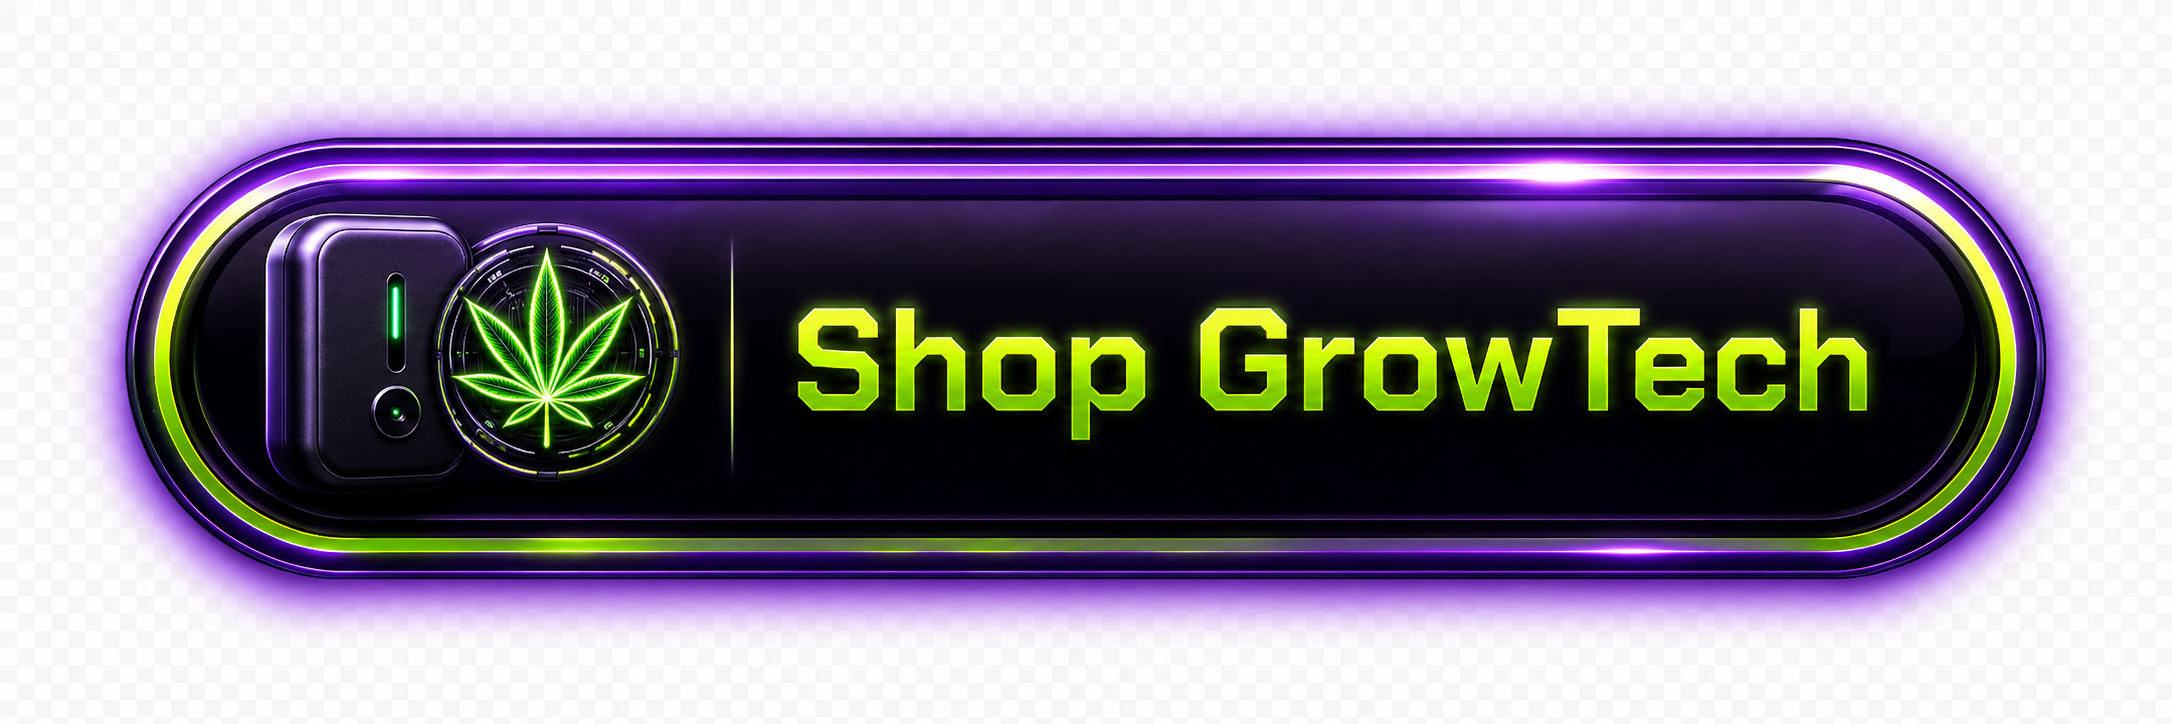
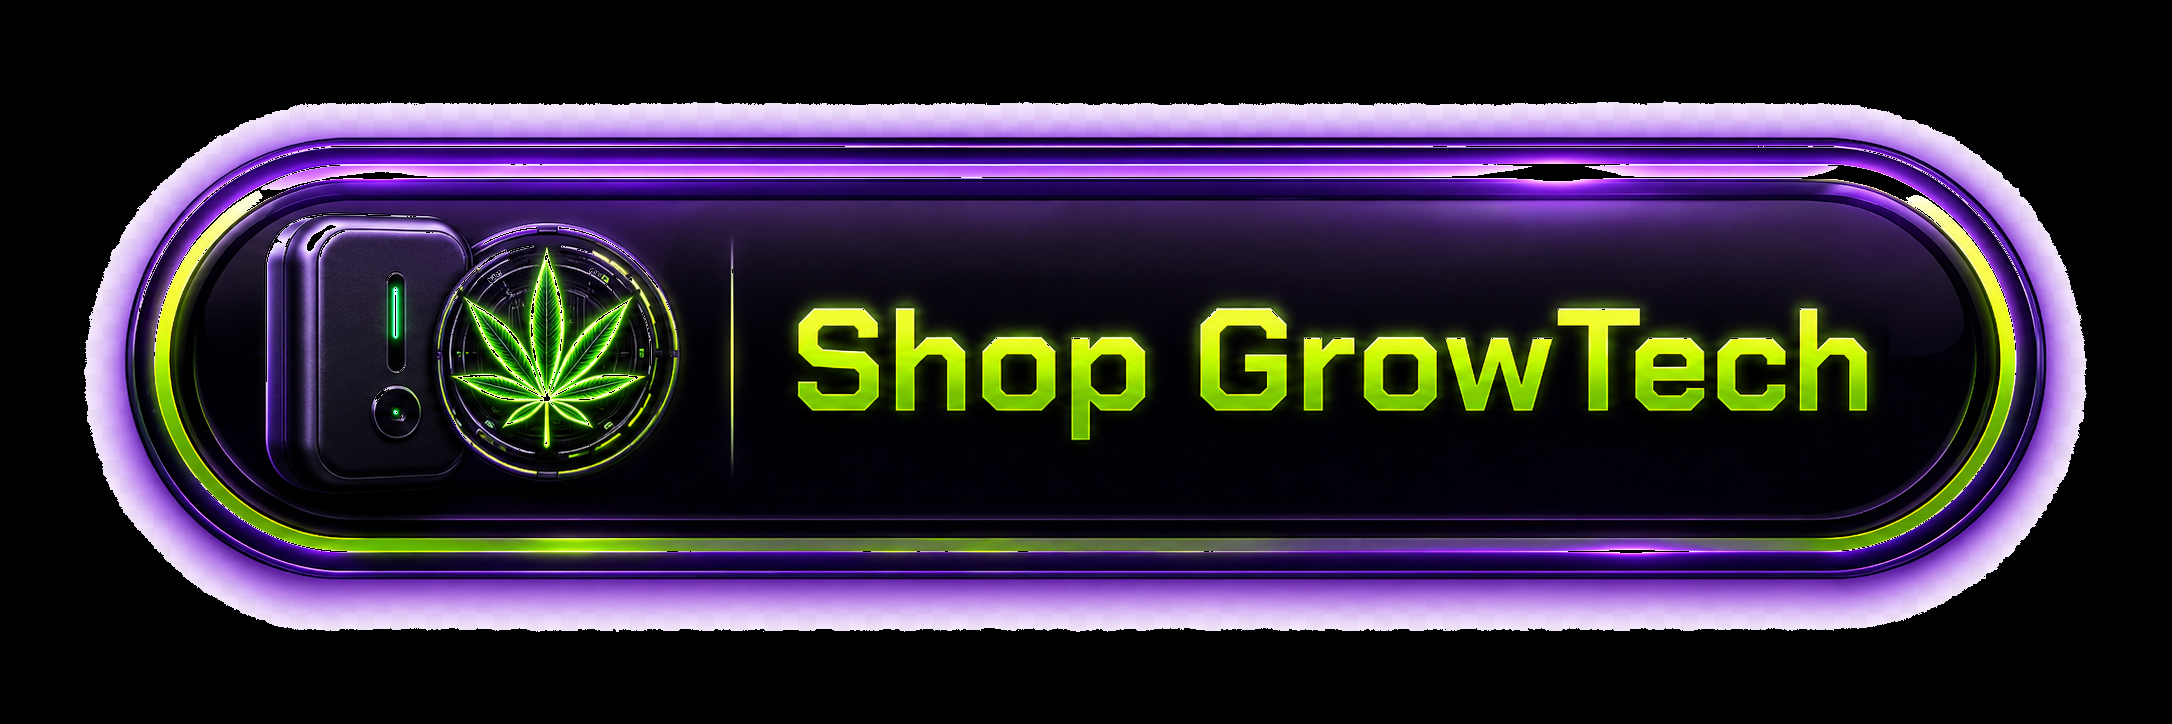
Use GrowTech image button in landing CTAs

diff --git a/src/components/landing/GrowTechCTA.tsx b/src/components/landing/GrowTechCTA.tsx
@@ -1,5 +1,4 @@
 import { Link } from 'react-router-dom';
-import { ArrowRight, Camera } from 'lucide-react';
 import { GROW_TECH_URL } from './ctaLinks';
 
 type GrowTechCTAVariant = 'hero' | 'nav' | 'compact' | 'inline';
@@ -15,13 +14,13 @@ interface GrowTechCTAProps {
 
 const variantStyles: Record<GrowTechCTAVariant, string> = {
   hero:
-    'min-h-[52px] rounded-[18px] border border-purple-400/45 bg-[linear-gradient(135deg,#251044_0%,#08070d_46%,#062513_100%)] px-4 py-3 text-sm font-extrabold text-white shadow-[0_0_24px_rgba(168,85,247,0.22),0_0_28px_rgba(34,197,94,0.14)] hover:-translate-y-0.5 hover:border-lime-300/70 hover:shadow-[0_0_34px_rgba(168,85,247,0.32),0_0_38px_rgba(34,197,94,0.22)] focus:ring-lime-300',
+    'h-[54px] sm:h-[56px]',
   nav:
-    'min-h-10 rounded-xl border border-purple-400/40 bg-[linear-gradient(135deg,#1b0b34_0%,#07070b_50%,#062111_100%)] px-3 py-1.5 text-sm font-bold text-white shadow-[0_0_16px_rgba(168,85,247,0.18),0_0_18px_rgba(34,197,94,0.12)] hover:-translate-y-0.5 hover:border-lime-300/65 hover:text-white hover:shadow-[0_0_24px_rgba(168,85,247,0.26),0_0_26px_rgba(34,197,94,0.18)] focus:ring-lime-300',
+    'h-[38px] sm:h-[40px]',
   compact:
-    'min-h-11 rounded-xl border border-purple-400/40 bg-[linear-gradient(135deg,#251044_0%,#08070d_46%,#062513_100%)] px-4 py-2.5 text-sm font-bold text-white shadow-[0_0_20px_rgba(168,85,247,0.18),0_0_22px_rgba(34,197,94,0.12)] hover:-translate-y-0.5 hover:border-lime-300/70 hover:shadow-[0_0_30px_rgba(168,85,247,0.28),0_0_30px_rgba(34,197,94,0.18)] focus:ring-lime-300',
+    'h-[46px]',
   inline:
-    'min-h-11 rounded-lg border border-purple-400/35 bg-purple-400/10 px-4 py-2.5 text-sm font-semibold text-lime-200 hover:-translate-y-0.5 hover:border-lime-300/60 hover:bg-landing-green/15 focus:ring-lime-300',
+    'h-[42px]',
 };
 
 const subtextByVariant: Record<GrowTechCTAVariant, string> = {
@@ -45,16 +44,17 @@ export default function GrowTechCTA({
       <Link
         to={GROW_TECH_URL}
         data-cta-location={ctaLocation}
-        className={`group relative inline-flex items-center justify-center gap-2 overflow-hidden whitespace-nowrap font-sans transition-all duration-200 focus:outline-none focus:ring-2 focus:ring-offset-2 focus:ring-offset-black ${variantStyles[variant]}`}
+        aria-label={label}
+        className="group relative inline-flex items-center justify-center rounded-full bg-black leading-none transition-all duration-200 hover:-translate-y-0.5 hover:drop-shadow-[0_0_22px_rgba(168,85,247,0.38)] focus:outline-none focus:ring-2 focus:ring-lime-300 focus:ring-offset-2 focus:ring-offset-black"
       >
-        <span className="absolute inset-x-4 top-0 h-px bg-white/35" aria-hidden="true" />
-        <span className="absolute inset-x-4 bottom-0 h-px bg-lime-300/45" aria-hidden="true" />
-        <span className="absolute left-2 top-1/2 h-8 w-8 -translate-y-1/2 rounded-full bg-lime-300/18 blur-md" aria-hidden="true" />
-        <span className="relative inline-flex h-7 w-7 shrink-0 items-center justify-center rounded-full border border-lime-300/45 bg-black/45 text-lime-300 shadow-[0_0_14px_rgba(163,230,53,0.24)]">
-          <Camera className="h-3.5 w-3.5" aria-hidden="true" />
-        </span>
-        <span className="relative leading-none drop-shadow-[0_0_8px_rgba(163,230,53,0.2)]">{label}</span>
-        <ArrowRight className="relative h-4 w-4 text-lime-200 transition-transform duration-200 group-hover:translate-x-0.5" aria-hidden="true" />
+        <span className="sr-only">{label}</span>
+        <img
+          src="/images/grow-tech/ShopGrowTechButton.png"
+          alt=""
+          aria-hidden="true"
+          className={`w-auto rounded-full bg-black object-contain transition-transform duration-200 group-hover:scale-[1.02] ${variantStyles[variant]}`}
+          loading={variant === 'hero' ? 'eager' : 'lazy'}
+        />
       </Link>
       {shouldShowSubtext && (
         <p className="mt-2 text-center text-xs font-medium text-white/65 sm:text-left">{subtextByVariant[variant]}</p>

diff --git a/src/components/landing/LandingNav.tsx b/src/components/landing/LandingNav.tsx
@@ -17,23 +17,23 @@ export default function LandingNav() {
           MasterGrowbot AI
         </span>
       </Link>
-      <div className="flex flex-col items-center justify-center gap-3 sm:flex-row sm:flex-wrap sm:gap-5">
+      <div className="flex flex-col items-center justify-center gap-3 sm:flex-row sm:flex-wrap sm:items-start sm:gap-5">
         <GrowTechCTA variant="nav" ctaLocation="nav:growtech-shop" />
         <Link
           to="/grow-guides"
-          className="text-sm font-medium text-white/60 hover:text-landing-green transition-colors duration-200 font-sans"
+          className="text-sm font-medium text-white/60 hover:text-landing-green transition-colors duration-200 font-sans sm:pt-[11px]"
         >
           Grow Guides
         </Link>
         <Link
           to="/vpd-calculator"
-          className="text-sm font-medium text-white/60 hover:text-landing-green transition-colors duration-200 font-sans"
+          className="text-sm font-medium text-white/60 hover:text-landing-green transition-colors duration-200 font-sans sm:pt-[11px]"
         >
           VPD Calculator
         </Link>
         <Link
           to="/contact"
-          className="text-sm font-medium text-white/60 hover:text-landing-green transition-colors duration-200 font-sans"
+          className="text-sm font-medium text-white/60 hover:text-landing-green transition-colors duration-200 font-sans sm:pt-[11px]"
         >
           Contact
         </Link>
@@ -41,13 +41,13 @@ export default function LandingNav() {
           <a
             href="/#ipm-playbook"
             data-cta-location="nav:ipm-playbook-section"
-            className="text-sm font-medium text-white/60 hover:text-landing-green transition-colors duration-200 font-sans"
+            className="text-sm font-medium text-white/60 hover:text-landing-green transition-colors duration-200 font-sans sm:pt-[11px]"
           >
             IPM Playbook
           </a>
           <AmazonBookButton
             location="nav"
-            imageClassName="h-[24px] max-w-[88px] rounded-md sm:h-[26px]"
+            imageClassName="h-[54px] max-w-[168px] rounded-lg sm:h-[60px]"
           />
         </div>
       </div>
